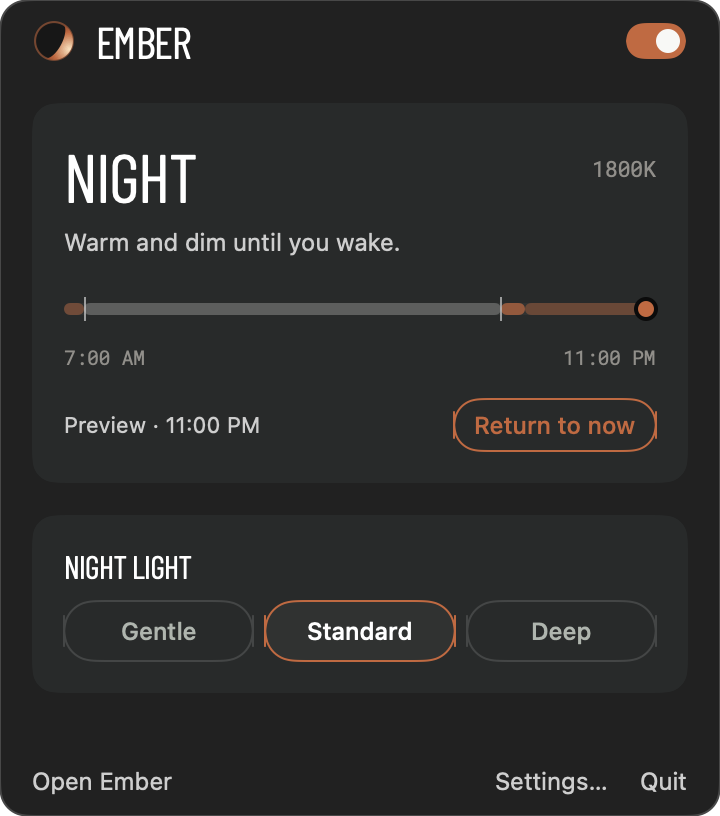
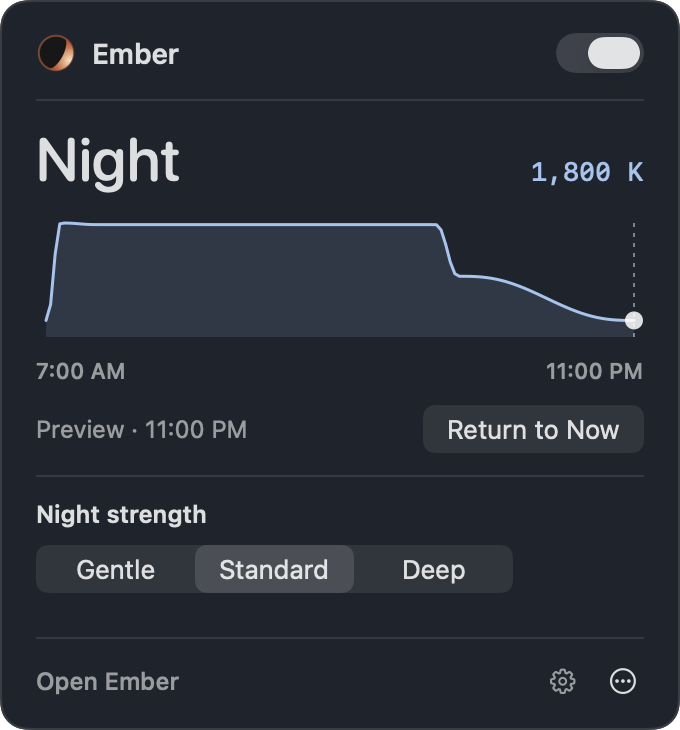
chore: prepare Ember 0.6.2 release

diff --git a/site/index.html b/site/index.html
@@ -52,22 +52,22 @@
             <a href="#how">Installation</a>
             <a href="#faq">Questions</a>
             <a href="mailto:cohenbcoolidge@gmail.com">Support</a>
-            <a href="/privacy">Privacy</a>
+            <a href="/privacy">Privacy</a><a href="/terms">Terms</a>
           </div>
         </details>
       </nav>
       <a class="button nav-cta" href="#get">Get Ember</a>
-      <details class="mobile-menu"><summary><span aria-hidden="true">☰</span><span class="sr-only">Menu</span></summary><nav class="resource-menu" aria-label="Mobile navigation"><a href="#product">Product</a><a href="#get">Pricing</a><a href="#how">Installation</a><a href="#faq">Questions</a><a href="mailto:cohenbcoolidge@gmail.com">Support</a><a href="/privacy">Privacy</a></nav></details>
+      <details class="mobile-menu"><summary><span aria-hidden="true">☰</span><span class="sr-only">Menu</span></summary><nav class="resource-menu" aria-label="Mobile navigation"><a href="#product">Product</a><a href="#get">Pricing</a><a href="#how">Installation</a><a href="#faq">Questions</a><a href="mailto:cohenbcoolidge@gmail.com">Support</a><a href="/privacy">Privacy</a><a href="/terms">Terms</a></nav></details>
     </header>
 
     <main id="main" tabindex="-1">
       <section class="hero" aria-labelledby="hero-title">
         <div class="landscape hero-landscape" aria-hidden="true">
-          <video class="hero-video" poster="assets/cinematic/dusk-poster.jpg" autoplay muted loop playsinline preload="metadata" disablepictureinpicture>
-            <source src="assets/cinematic/dusk-hero.mp4" type="video/mp4">
+          <video class="hero-video" muted loop playsinline preload="none" disablepictureinpicture>
+            <source data-src="assets/cinematic/dusk-hero.mp4" type="video/mp4">
           </video>
           <picture class="hero-still">
-            <source media="(max-width: 640px)" srcset="assets/cinematic/dusk-1200.jpg">
+            <source media="(max-width: 640px)" srcset="assets/cinematic/dusk-mobile.webp">
             <img src="assets/cinematic/dusk.jpg" width="2400" height="1350" alt="" fetchpriority="high" decoding="async">
           </picture>
         </div>
@@ -136,13 +136,13 @@
 
       <section class="panel-proof content-width" id="panel">
         <div class="panel-copy"><h2>In your menu bar.</h2><p>Check your light, choose a night strength, or pause for true color. Open Ember to edit your sleep schedule.</p><a class="text-link" href="#product" data-demo-action="photos">Try true color apps <span aria-hidden="true">↑</span></a></div>
-        <figure class="panel-render"><img src="assets/panel.png" width="720" height="816" loading="lazy" alt="Ember’s Mac menu bar panel showing a night-light preview, day track, Pause control, three night strengths, and links to Open Ember and Settings."><figcaption>Ember 0.6.1 · Actual app</figcaption></figure>
+        <figure class="panel-render"><img src="assets/panel.png" width="680" height="730" loading="lazy" alt="Ember’s Mac menu bar panel showing a night-light preview, the day’s warmth curve, Return to Now, and three night strengths."><figcaption>Ember 0.6.2 · Actual app</figcaption></figure>
       </section>
 
       <section class="faq content-width" id="faq" aria-labelledby="faq-title">
         <div class="section-intro"><h2 id="faq-title">Questions?</h2></div>
         <div class="faq-list">
-          <details id="how"><summary>How do I buy and install?</summary><p>Pay through Stripe. Your license key arrives by email. Use Download for Mac, open Ember.dmg, drag Ember to Applications, open it, and paste the key, or unlock with the email you paid with to get a 6-digit code.</p></details>
+          <details id="how"><summary>How do I buy and install?</summary><p>Pay through Stripe. Your license key arrives by email. Use Download, open Ember.dmg, drag Ember to Applications, open it, and paste the key, or unlock with the email you paid with to get a 6-digit code.</p></details>
           <details><summary>Does it work with my display?</summary><p>External display support depends on the display and connection; HDR and color profiles can affect the result.</p></details>
           <details><summary>What about Night Shift and f.lux?</summary><p>Ember turns Night Shift off and quits f.lux while enabled.</p></details>
         </div>
@@ -154,7 +154,7 @@
         <img class="app-icon" src="assets/icon.png" width="80" height="80" alt="Ember app icon">
         <h2 id="get-title">Get Ember.</h2>
         <div class="cta-row"><a class="button primary" href="https://licensing.cohencool.workers.dev/buy/ember" rel="noopener">Get Ember</a><a class="button secondary download-link" id="download" href="/downloads/Ember.dmg" download="Ember.dmg" aria-controls="download-help">Download</a></div>
-        <p class="small">$9 · One-time purchase · No subscription</p><p class="small subtle" id="download-note" aria-live="polite">Version 0.6.1 · Apple silicon &amp; Intel · macOS 14+ · Signed and notarized</p>
+        <p class="small">$9 · One-time purchase · No subscription</p><p class="small subtle" id="download-note" aria-live="polite">Version 0.6.2 · Apple silicon &amp; Intel · macOS 14+ · Signed and notarized</p>
         <p class="small subtle">Ember changes display color; it does not guarantee better sleep.</p>
         </div>
         <div class="landscape dawn-landscape" aria-hidden="true"><img src="assets/cinematic/dawn.jpg" width="2400" height="1350" alt="" loading="eager" decoding="async" fetchpriority="low"></div>
@@ -169,7 +169,7 @@
         <p class="small"><a class="download-link" href="/downloads/Ember.dmg" download="Ember.dmg">Download again</a> · <a href="mailto:cohenbcoolidge@gmail.com">Installation help</a></p>
       </section>
     </main>
-    <footer class="footer content-width"><a class="wordmark" href="/"><img src="assets/icon.png" width="28" height="28" alt="">Ember</a><nav aria-label="Footer navigation"><a href="#get">Pricing</a><a href="#how">Installation</a><a href="mailto:cohenbcoolidge@gmail.com">Support</a><a href="/privacy">Privacy</a></nav><p>Made by <a href="https://cohencool.com/">Cohen</a>.</p></footer>
+    <footer class="footer content-width"><a class="wordmark" href="/"><img src="assets/icon.png" width="28" height="28" alt="">Ember</a><nav aria-label="Footer navigation"><a href="#get">Pricing</a><a href="#how">Installation</a><a href="mailto:cohenbcoolidge@gmail.com">Support</a><a href="/privacy">Privacy</a><a href="/terms">Terms</a></nav><p>Made by <a href="https://cohencool.com/">Cohen</a>.</p></footer>
     <script src="site.js?v=8" defer></script>
   </body>
 </html>

diff --git a/site/styles.css b/site/styles.css
@@ -113,7 +113,7 @@ summary::-webkit-details-marker { display: none; }
 .hero-still { position: absolute; inset: 0; }
 .hero-still img { transform: scale(1.025); }
 /* Video covers the still when it can play; still is the Reduce Motion / failed-video fallback. */
-.hero:not(.use-still) .hero-still { opacity: 0; pointer-events: none; }
+.hero.has-video:not(.use-still) .hero-still { opacity: 0; pointer-events: none; }
 .hero.use-still .hero-video { display: none; }
 .hero.use-still .hero-still { opacity: 1; }
 .hero-copy { position: relative; }
@@ -372,7 +372,7 @@ input { accent-color: var(--accent); caret-color: var(--accent); }
   h2 { font-size: 43px; }
   .nav { height: 72px; padding: 12px 24px; }
   .nav-links { display: none; }
-  .nav-cta { margin-left: auto; min-height: 34px; font-size: 12px; padding: 7px 14px; }
+  .nav-cta { margin-left: auto; min-height: 44px; font-size: 12px; padding: 7px 14px; }
   .wordmark { font-size: 16px; }
   .wordmark img { width: 28px; height: 28px; }
   .mobile-menu { display: block; position: relative; font-size: 13px; }
@@ -381,7 +381,7 @@ input { accent-color: var(--accent); caret-color: var(--accent); }
   .hero { min-height: 760px; min-height: max(760px, calc(100svh - 72px)); padding: 56px 0 160px; }
   .hero .eyebrow { font-size: 10px; margin-bottom: 28px; }
   .hero .lede { font-size: 14px; max-width: 305px; margin: 26px 0; }
-  .hero .small { font-size: 12px; }
+  .hero .small { font-size: 14px; }
   .hero-landscape img, .hero-landscape video { object-position: 65% center; }
   .hero-landscape { top: 400px; }
   .hero-next { left: 24px; bottom: 28px; }
@@ -454,7 +454,7 @@ input { accent-color: var(--accent); caret-color: var(--accent); }
   .get h2 { font-size: 48px; }
   .get .eyebrow { font-size: 10px; }
   .get .button { width: min(300px,100%); }
-  .get .small { font-size: 12px; }
+  .get .small { font-size: 14px; }
   .dawn-landscape img { object-position: 66% center; }
 
   .footer { flex-wrap: wrap; gap: 14px; }

diff --git a/site/terms.html b/site/terms.html
@@ -1,0 +1,31 @@
+<!doctype html>
+<html lang="en">
+  <head>
+    <meta charset="utf-8">
+    <meta name="viewport" content="width=device-width, initial-scale=1">
+    <meta name="color-scheme" content="dark">
+    <title>Terms · Ember</title>
+    <link rel="icon" href="/favicon.png" type="image/png">
+    <link rel="stylesheet" href="/assets/fonts/fonts.css">
+    <link rel="stylesheet" href="/styles.css?v=10">
+    <script src="/analytics.js" defer></script>
+  </head>
+  <body>
+    <header class="nav">
+      <a class="wordmark" href="/"><img src="/assets/icon.png" width="32" height="32" alt="">Ember</a>
+      <a class="button" href="/">Back</a>
+    </header>
+    <main class="legal">
+      <h1>Terms</h1>
+      <p>Ember is a paid macOS app by Cohen Coolidge. It adjusts display color according to your schedule. Use it on Macs you own or are authorized to use.</p>
+      <h2>Payment and activation</h2>
+      <p>Ember costs $9 as a one-time purchase. Checkout shows the final total, including any applicable taxes, before you pay. Ember does not have a subscription.</p>
+      <p>Your purchase provides a license to activate Ember. Keep your purchase email so you can recover your license or unlock the app by email. Contact support if you need help moving to another Mac.</p>
+      <h2>Display adjustments</h2>
+      <p>You control Ember’s schedule, strength, and pause settings. Color changes affect how images appear. Use true color for work that needs accurate color. Ember is not a medical device and does not guarantee a change in sleep.</p>
+      <h2>Privacy and support</h2>
+      <p>The <a href="/privacy">privacy policy</a> explains location, licensing, payment, and optional analytics.</p>
+      <p>For installation, activation, payment, or refund questions, contact <a href="mailto:cohenbcoolidge@gmail.com">cohenbcoolidge@gmail.com</a>. Include the email used for your purchase. Do not send payment card details.</p>
+    </main>
+  </body>
+</html>

diff --git a/site/site.js b/site/site.js
@@ -6,9 +6,19 @@
   var heroVideo = hero && hero.querySelector('.hero-video');
   var motionPreference = window.matchMedia('(prefers-reduced-motion: reduce)');
   var reduceMotion = motionPreference.matches;
+  var mobileHero = window.matchMedia('(max-width: 640px)').matches;
+  function loadHeroVideo() {
+    if (!heroVideo || reduceMotion || mobileHero) return;
+    var source = heroVideo.querySelector('source[data-src]');
+    if (source && !source.getAttribute('src')) {
+      source.setAttribute('src', source.dataset.src);
+      heroVideo.load();
+    }
+  }
   function useHeroStill() {
     if (!hero) return;
     hero.classList.add('use-still');
+    hero.classList.remove('has-video');
     if (heroVideo) {
       try {
         heroVideo.pause();
@@ -32,9 +42,13 @@
     }
   }
   if (hero) {
-    if (reduceMotion || !heroVideo) {
+    if (reduceMotion || mobileHero || !heroVideo) {
       useHeroStill();
     } else {
+      loadHeroVideo();
+      heroVideo.addEventListener('playing', function () {
+        hero.classList.add('has-video');
+      });
       heroVideo.addEventListener('error', useHeroStill);
       heroVideo.addEventListener('stalled', function () {
         if (heroVideo.readyState < 2) useHeroStill();
@@ -59,7 +73,8 @@
   motionPreference.addEventListener('change', function (event) {
     reduceMotion = event.matches;
     if (reduceMotion) useHeroStill();
-    else if (hero && heroVideo) {
+    else if (hero && heroVideo && !mobileHero) {
+      loadHeroVideo();
       hero.classList.remove('use-still');
       syncHeroVideo();
     }

diff --git a/docs/qa/2026-11-05-launch-qa.md b/docs/qa/2026-11-05-launch-qa.md
@@ -1,0 +1,20 @@
+PASS
+
+Five simulated visitors checked the actual [0.6.2 version preview](https://55c69d14-ember.cohencool.workers.dev) in Ego Lite. Each used a separate page in the task’s browser space. The pages share the browser profile. The preview uses a new hostname and has no account flow.
+
+The success action was downloading the notarized Mac app or reaching the $9 checkout. No payment or form submission occurred.
+
+| Rank | Severity | Finding | Visitors | Evidence | Resolution |
+| --- | --- | --- | --- | --- | --- |
+| 1 | Major, fixed | Mobile LCP reached 12.292 seconds while the video poster competed with other hero resources. | Mobile | `2026-11-05/mobile/375-slow3g.png` | The phone now requests a 5,844-byte still. Rerun LCP was 2.136 seconds at 375 × 667 with 400 ms latency and 50 KB/s throughput. No movie or video poster request appeared. |
+| 2 | Major, fixed | Purchase and compatibility text rendered at 12 px. | Mobile | `2026-11-05/mobile/375-pricing-reduced-motion.png` | Key text now measures 14 px. |
+| 3 | Nit, fixed | Header Get Ember target was 34 px high. | Mobile | Browser geometry | Target now measures 89 × 44 px. |
+| 4 | Nit, fixed | FAQ used Download for Mac while the button read Download. | Literal | `2026-11-05/literal/installation.png` | FAQ label now matches the button. |
+
+Impatient reached Download in two clicks. The browser download completed in 600 ms and exactly matched the notarized installer SHA-256. Skeptic verified Terms, Privacy and the live Stripe page displaying Ember, a one-time license, and $9.00 before tax. The legal and pricing checks passed on the updated preview without opening a second checkout session.
+
+Literal followed the named actions and installation instructions. Breaker checked encoded query/hash input, empty local preview time fields, Back, refresh and JavaScript-disabled content. The static page has no account, contact or payment form to submit. No sampled resource returned a 4xx/5xx status.
+
+The changed media path has an automated regression check at `site/qa/hero-media.test.mjs`. The old script and markup fail it. All three current tests pass, and pre-push plus CI run the same command.
+
+Screenshots are in `docs/qa/2026-11-05/`. Complete retrospective console capture was unavailable. The throttled full-page load exceeded 15 seconds, while the first viewport met the four-second LCP gate. Physical native display effects, Intel/macOS 14 execution and VoiceOver speech were outside this browser pass.

diff --git a/docs/releases/0.6.2.md b/docs/releases/0.6.2.md
@@ -1,0 +1,19 @@
+# Ember 0.6.2 / build 9
+
+The Horizon panel adds a schedule curve, Pause Until Morning, and native controls. Settings can add apps that should keep true color. Steady daylight and night wait for schedule boundaries, repeated display targets skip gamma writes, and the license gate starts locked.
+
+## Verified candidate
+
+The universal Developer ID build passed with Hardened Runtime and the location entitlement. Apple accepted notarization submission `208c18c3-f546-4110-90fe-ff1290302e99`. App and DMG tickets were stapled. Signature verification, staple validation, and Gatekeeper’s primary-signature assessment passed.
+
[1 lines of base64/hex data omitted]
+
+The live licensing Worker has live mode enabled and both Stripe bindings present. The Ember purchase route returned a 303 redirect to live Stripe Checkout. The stale repository HOLD was moved to a recoverable local archive. Main now requires test, gitleaks, guardrails, and guard / taste.
+
+The local signed test command passed 88 tests with one opt-in benchmark skipped. PR #29’s previous head passed all four hosted checks. Release-version and site changes require a final CI run.
+
+## Preview
+
+Cloudflare version `55c69d14-fbb1-4c8c-8e46-87f49eb0d99e` serves the candidate at [the version preview](https://55c69d14-ember.cohencool.workers.dev). Five-visitor launch QA passed after the mobile first viewport improved from 12.292 to 2.136 seconds under the same throttling. The four-persona copy review returned SHIP. Production promotion and live installer-hash verification are pending.
+
+Physical display transitions, Intel/macOS 14 execution and VoiceOver speech remain outside the automated checks. Crash symbols are retained with the Release build. Benchmark instrumentation in the detached baseline worktree is excluded from the release branch.

diff --git a/docs/qa/2026-11-05-preship-review.md b/docs/qa/2026-11-05-preship-review.md
@@ -1,0 +1,9 @@
+SHIP
+
+Customer, Competitor, Skeptic and Conversion reviewed the same 0.6.2 landing page, app description, pricing and legal pages.
+
+The first review blocked on missing Terms and noted that screenshot alt text named a Pause button while the image showed Return to Now. Terms is now linked from desktop Resources, mobile navigation and the footer. The image description now matches the screenshot. The second review found no remaining copy blockers.
+
+The site describes a $9 one-time Mac utility, its activation flow, display limitations, Night Shift/f.lux behavior and support route. The browser review confirmed the same product and price at checkout. The installation FAQ’s Download label matches the button.
+
+Evidence is in `site/index.html`, `site/terms.html`, `site/privacy.html` and `docs/qa/2026-11-05/skeptic/`. The review used the actual app’s documented behavior and the candidate screenshot. No payment was submitted.
